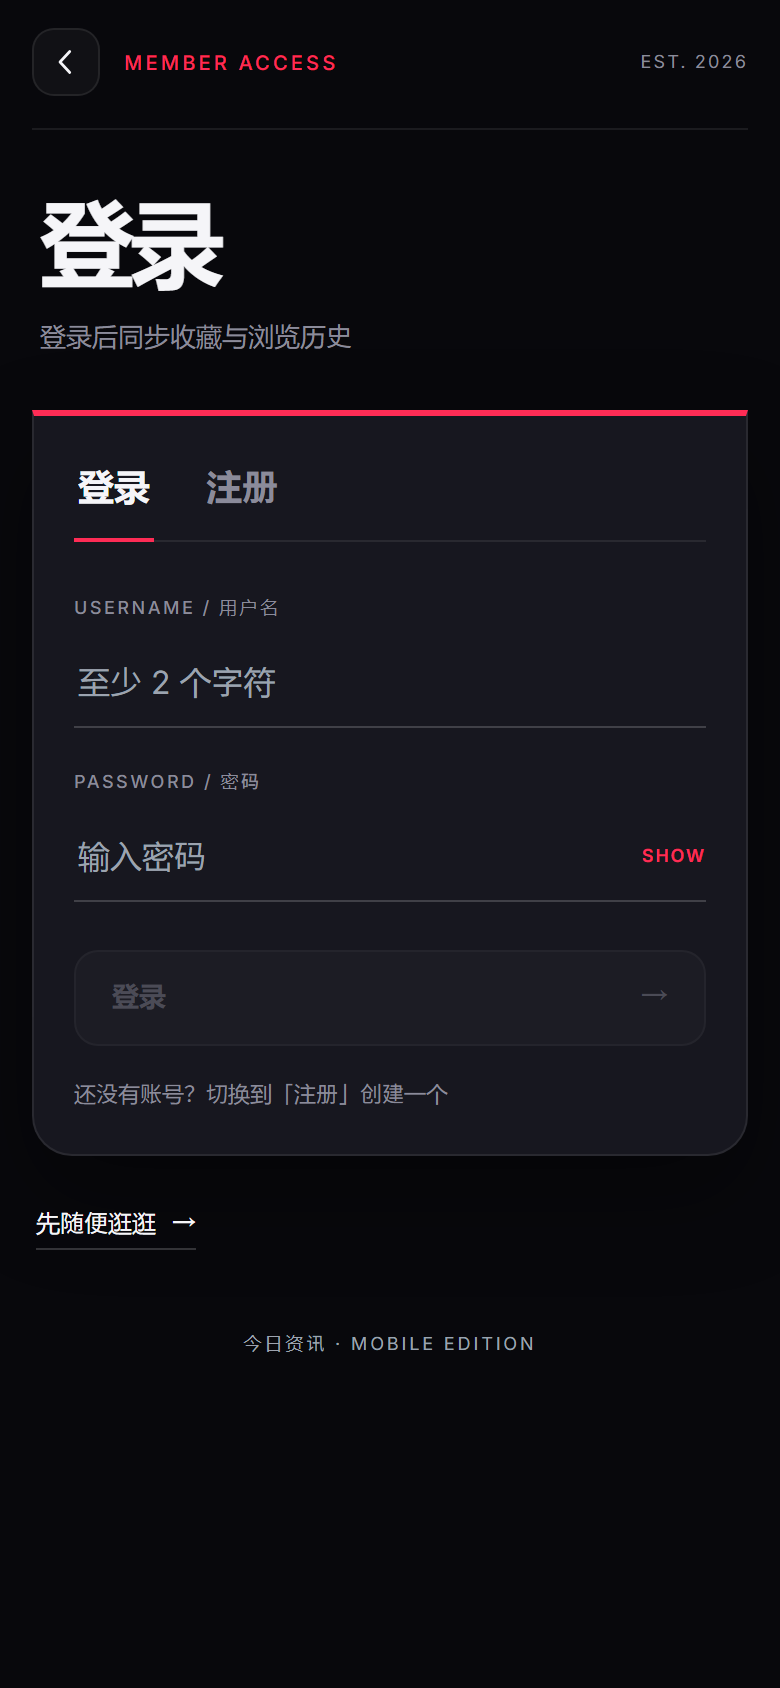
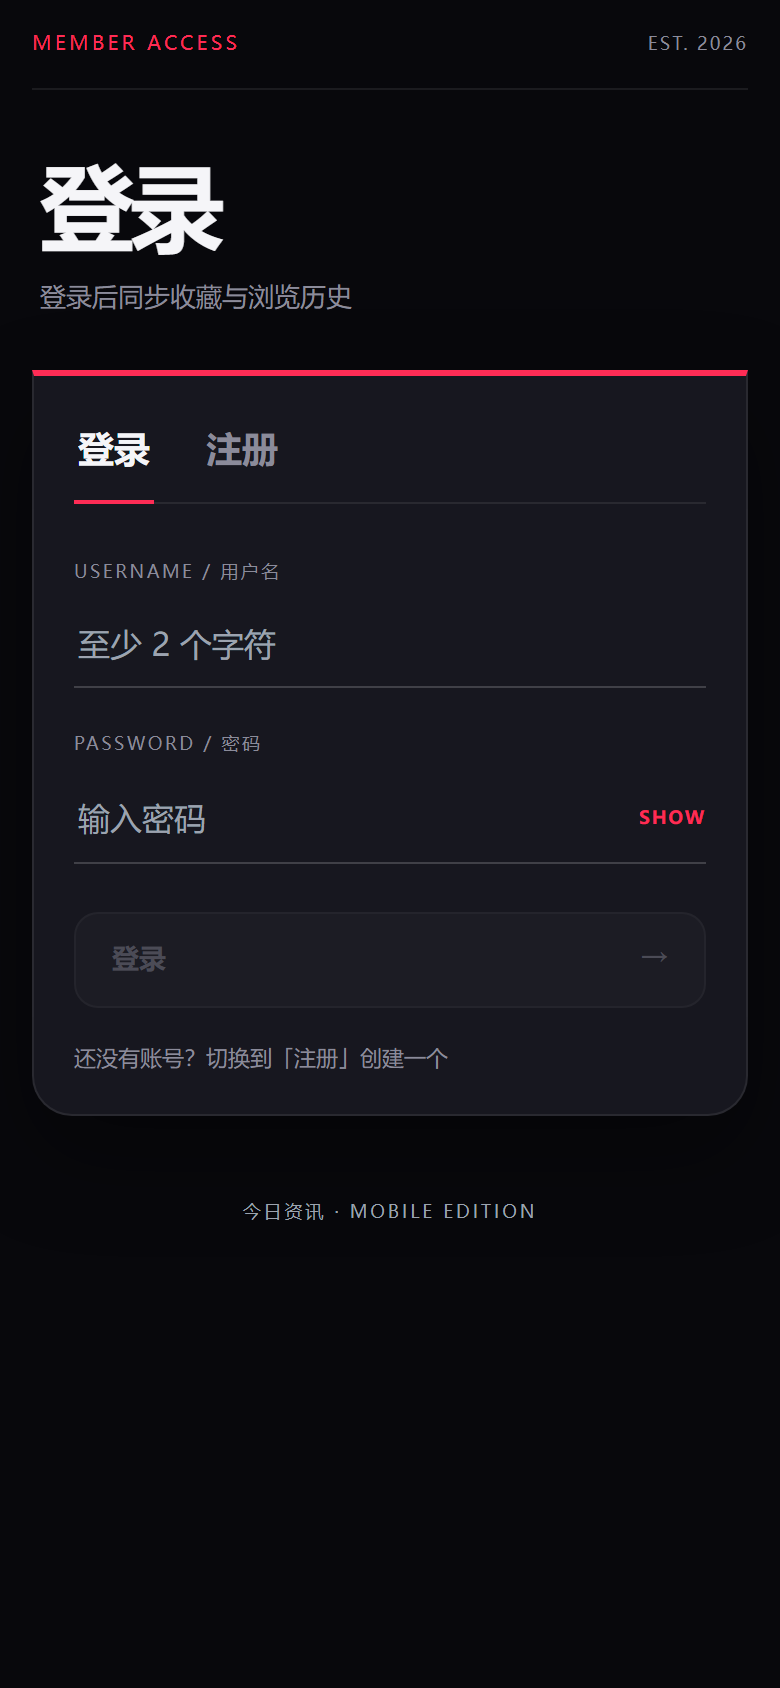
feat(frontend): require login before entering app

diff --git a/frontend/src/router/index.js b/frontend/src/router/index.js
@@ -7,8 +7,8 @@ import LoginView from '../views/LoginView.vue'
 import { useAuth } from '../stores/auth'
 
 const routes = [
-  { path: '/', name: 'home', component: HomeView, meta: { tab: true } },
-  { path: '/news/:id', name: 'detail', component: DetailView },
+  { path: '/', name: 'home', component: HomeView, meta: { tab: true, auth: true } },
+  { path: '/news/:id', name: 'detail', component: DetailView, meta: { auth: true } },
   // 收藏 / 浏览记录已并入「我的」页内联展示，旧链接做重定向
   {
     path: '/favorites',
@@ -18,11 +18,20 @@ const routes = [
     path: '/history',
     redirect: { name: 'profile', query: { tab: 'history' } }
   },
-  { path: '/profile', name: 'profile', component: ProfileView, meta: { tab: true } },
+  { path: '/profile', name: 'profile', component: ProfileView, meta: { tab: true, auth: true } },
   { path: '/rss', name: 'rss', component: RssView, meta: { tab: true, auth: true } },
-  { path: '/login', name: 'login', component: LoginView },
+  { path: '/login', name: 'login', component: LoginView, meta: { guest: true } },
   { path: '/:pathMatch(.*)*', redirect: '/' }
 ]
+
+function safeRedirect(value) {
+  return typeof value === 'string' &&
+    value.startsWith('/') &&
+    !value.startsWith('//') &&
+    !value.startsWith('/login')
+    ? value
+    : ''
+}
 
 const router = createRouter({
   history: createWebHistory(),
@@ -30,13 +39,24 @@ const router = createRouter({
   scrollBehavior: () => ({ top: 0 })
 })
 
-router.beforeEach((to) => {
-  if (!to.meta.auth) return true
+router.beforeEach(async (to) => {
+  const auth = useAuth()
+  // 本地有 token 也先校验一次，避免过期 token 直接进入内容页
+  await auth.ensureReady()
 
-  const { isLoggedIn } = useAuth()
-  if (isLoggedIn.value) return true
+  if (to.name === 'login') {
+    if (!auth.isLoggedIn.value) return true
+    return safeRedirect(to.query.redirect) || { name: 'home' }
+  }
 
-  return { name: 'login', query: { redirect: to.fullPath } }
+  if (!auth.isLoggedIn.value) {
+    return {
+      name: 'login',
+      query: to.fullPath === '/' ? {} : { redirect: to.fullPath }
+    }
+  }
+
+  return true
 })
 
 export default router

diff --git a/frontend/src/App.vue b/frontend/src/App.vue
@@ -1,15 +1,28 @@
 <script setup>
-import { computed, onMounted } from 'vue'
-import { useRoute } from 'vue-router'
+import { computed, onMounted, watch } from 'vue'
+import { useRoute, useRouter } from 'vue-router'
 import SideNav from './components/SideNav.vue'
 import TabBar from './components/TabBar.vue'
 import ToastHost from './components/ToastHost.vue'
 import { useAuth } from './stores/auth'
 
 const route = useRoute()
+const router = useRouter()
 const auth = useAuth()
 
 const showSideNav = computed(() => route.name !== 'login')
+
+watch(
+  () => auth.isLoggedIn.value,
+  (loggedIn) => {
+    if (!loggedIn && route.name !== 'login') {
+      router.replace({
+        name: 'login',
+        query: route.fullPath && route.fullPath !== '/' ? { redirect: route.fullPath } : {}
+      })
+    }
+  }
+)
 
 onMounted(() => {
   // 用本地 token 校验一次登录态，失败会自动清掉

diff --git a/frontend/README.md b/frontend/README.md
@@ -6,7 +6,7 @@
 
 - **首页资讯流**：栏目切换（数据来自 `news_categories`）、分页加载、自定义下拉刷新、触底自动加载、骨架屏、空分类/加载失败状态
 - **资讯详情**：浏览量自增、正文分段、相关推荐、右侧收藏 / 分享 / 回到顶部操作栏、进入详情自动记录浏览历史
-- **登录 / 注册**：Bearer Token，`localStorage` 持久化，启动时自动校验，401 自动清理登录态；登录后回到原页面
+- **登录 / 注册**：全站鉴权，未登录访问任何页面都会回到登录 / 注册页；Bearer Token + `localStorage` 持久化，启动时先校验 token，401 自动清理登录态；登录后按 `redirect` 回到原目标
 - **我的**：资料展示与编辑（昵称 / 简介 / 性别）、收藏与浏览记录在同一页内切换（不跳页、不弹窗）、单条删除、行内二次清空、退出登录
 - **订阅源**：作为底部一级入口，支持新增、编辑（名称 / Feed 地址 / 抓取间隔）、停用、立即抓取和删除；非管理员显示无权限提示
 - **移动端适配**：安全区、`100dvh`、底部 TabBar（首页 / 订阅源 / 我的）、下拉刷新、点击反馈、输入框防 iOS 缩放、`IntersectionObserver` 触底加载
@@ -62,7 +62,7 @@ npm install
 npm run dev
 ```
 
-打开 <http://127.0.0.1:5500>，首次使用请到「我的」→「登录 / 注册」创建账号。
+打开 <http://127.0.0.1:5500>，首次会直接进入登录 / 注册页；登录成功后才能进入内容页，退出登录会回到登录页。
 
 ### 3. 真机调试
 
